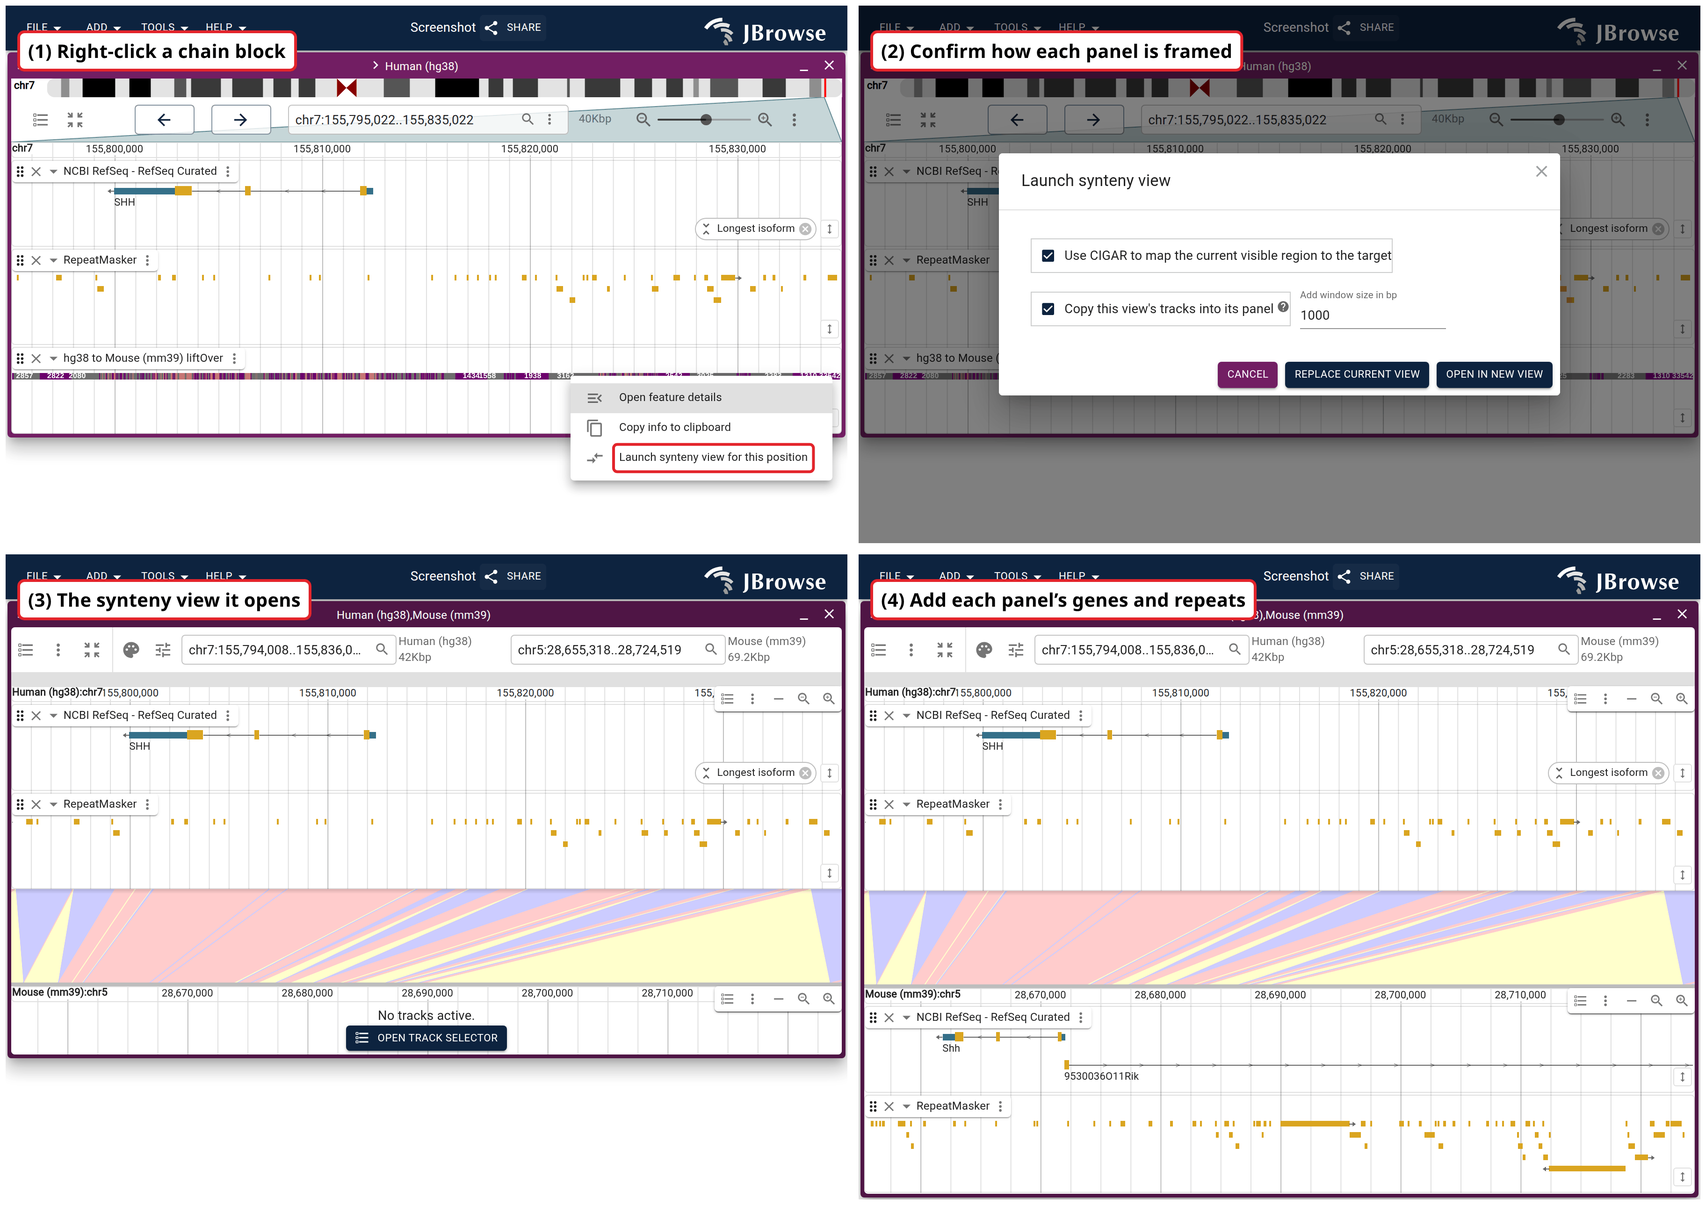
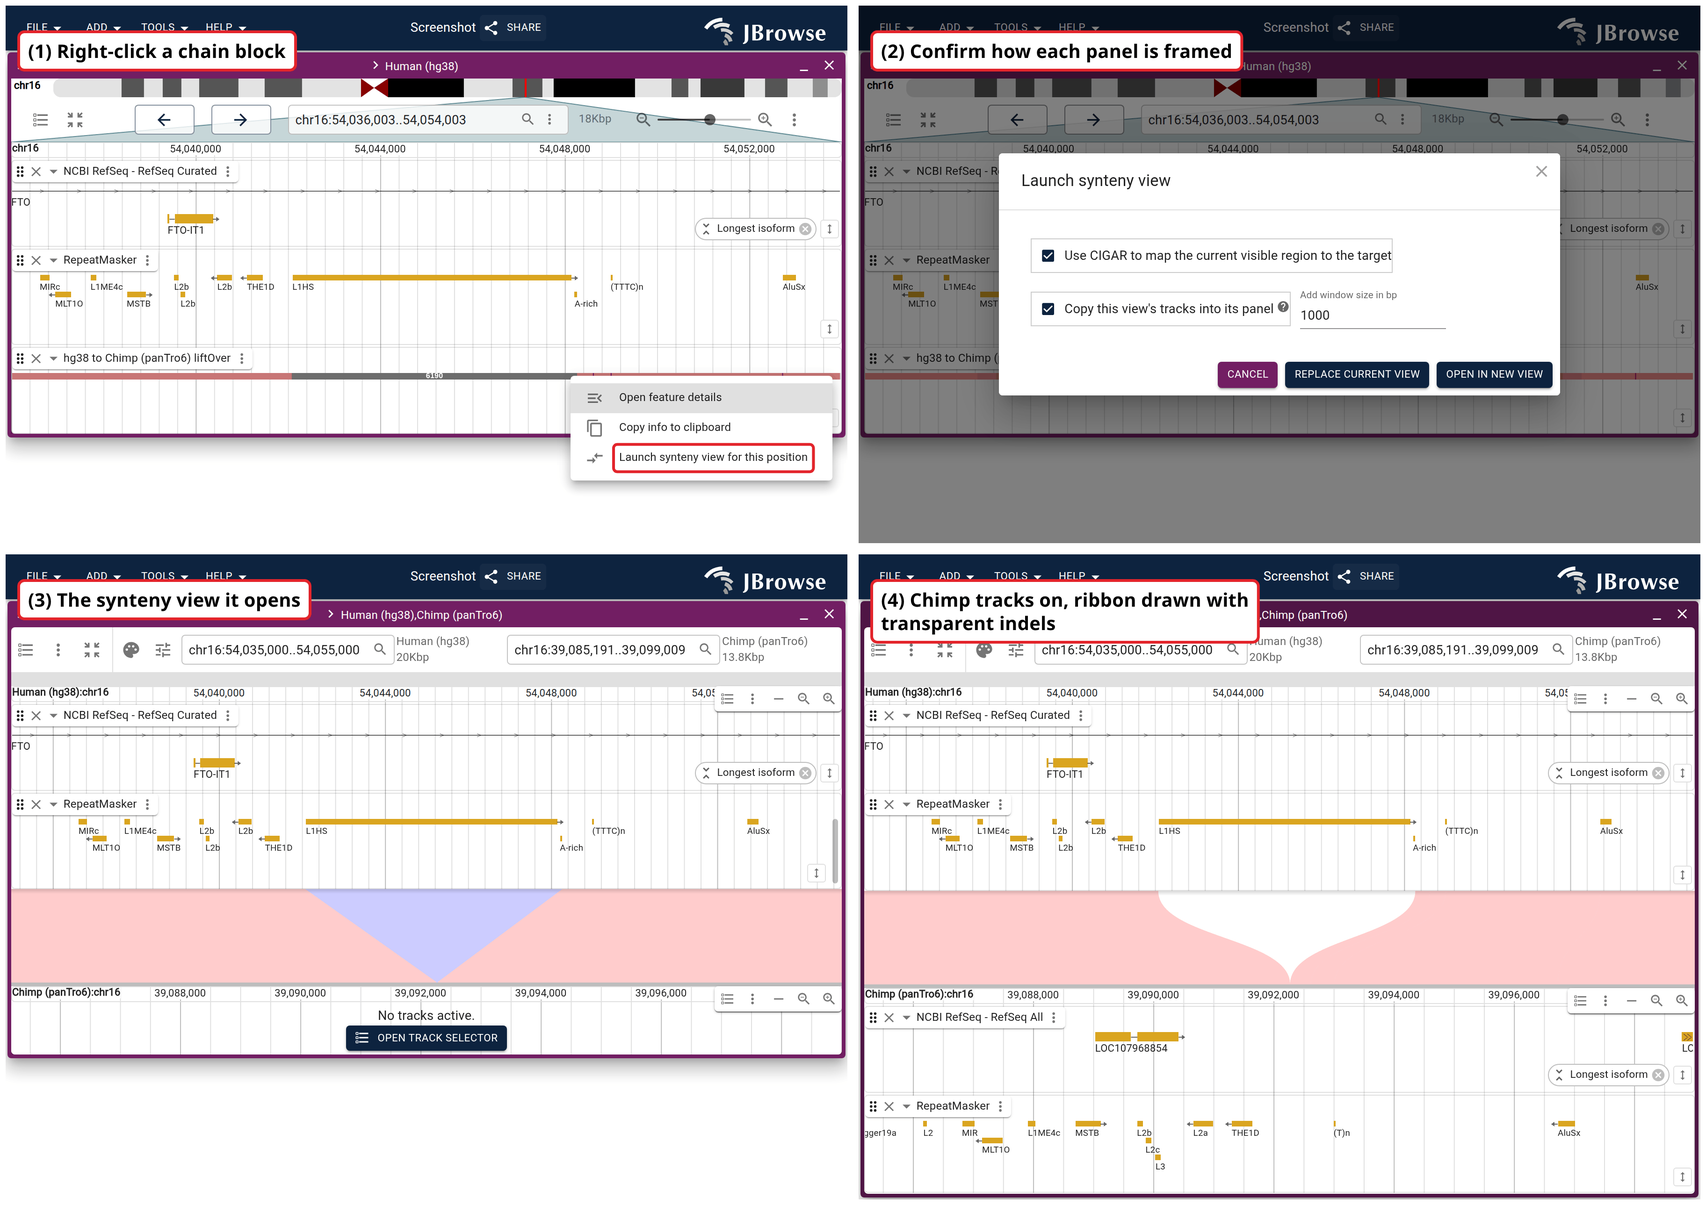
docs(genomes): move the launch walkthrough to a locus where the gaps mean something
Two review asks on `genomes_synteny/launch_sequence`, and the second one moved
the whole figure.

Curves and Transparent indels are on frame 4 only, since frames 1-3 are about
the launch rather than about the ribbon. That has a side effect worth keeping:
3 and 4 sit next to each other in the grid showing the same indel as a painted
wedge and as a see-through hole.

The gene changed because mouse was the wrong kind of cross-species for a payoff
frame made of indel wedges -- at ~90 My every gap is a gap and none of them is
attributable to anything. It is hg38 vs chimp now, which the hub already carries
as `hg38_to_panTro6_liftOver`, across an FTO intron, and the locus was measured
rather than picked. `chr16:54,042,096-54,048,145` is a 6,049 bp L1HS -- the
youngest, still-active human LINE-1 subfamily, human-specific by subfamily --
read out of the hub's own `rmsk.bed.gz`, 641 bp clear of the nearest upstream
element and ~4.5 kb clear of the next downstream one. Walking the chain's CIGAR
across the 20 kb window finds five indel events: one 6,190 bp deletion at
`chr16:54,042,080-54,048,270` and four insertions of 6, 1, 1 and 1 bp. So the
single hole in the ribbon is the single transposon, bracketing the RepeatMasker
call by its poly-A and target-site duplication, and the chimp panel keeps every
flanking repeat but not that one.

Deliberately not RB1/VAPB/PICALM: the linear-synteny guide's TE figures read the
[…]

diff --git a/website/scripts/specs/synteny.ts b/website/scripts/specs/synteny.ts
@@ -63,18 +63,19 @@ function tnnt3Session(view: Record<string, unknown> = {}) {
   })
 }
 
-// Genes over repeats in each panel of the finished SHH comparison, one entry per
+// Genes over repeats in each panel of the finished FTO comparison, one entry per
 // track. RefSeq Curated is the same gene track (and the same longest-isoform
 // glyph) the LGV the launch came from is showing, and the human pair matches
 // what that view's tracks were copied into the anchor panel as — so the two
-// bottom frames differ in the mouse panel and nothing else.
+// bottom frames differ in the chimp panel and nothing else.
 //
 // The heights are the figure's, which is the point of declaring this frame
 // rather than clicking it together: pinned, they hold the two frames to roughly
-// one height instead of the default four times over. Labels off on the repeats
-// for the same reason they are off in the launching view — at 42 kb every
-// repeat carries a name and the names are two rows of overlapping text.
-const SHH_PANEL_TRACKS = {
+// one height instead of the default four times over. Repeat labels stay ON here
+// (they are off in the launching view, which is 4x this window): at 18 kb this
+// interval holds a dozen elements, and the name on the one in the gap is what
+// makes the figure's claim checkable rather than asserted.
+const FTO_PANEL_TRACKS = {
   hg38: [
     {
       trackId: 'hg38-ncbiRefSeqCurated',
@@ -84,20 +85,21 @@ const SHH_PANEL_TRACKS = {
     {
       trackId: 'hg38-rmsk',
       displayMode: 'compact',
-      showLabels: 'none',
       height: 72,
     },
   ],
-  mm39: [
+  // `panTro6-ncbiRefSeq`, not the Curated track the human panel uses: RefSeq
+  // Curated is a human-first product and chimp's copy of it is sparse enough to
+  // leave this window empty, which would put a blank lane opposite FTO.
+  panTro6: [
     {
-      trackId: 'mm39-ncbiRefSeqCurated',
+      trackId: 'panTro6-ncbiRefSeq',
       geneGlyphMode: 'longestCoding',
       height: 60,
     },
     {
-      trackId: 'mm39-rmsk',
+      trackId: 'panTro6-rmsk',
       displayMode: 'compact',
-      showLabels: 'none',
       height: 72,
     },
   ],
@@ -1682,22 +1684,32 @@ export const syntenySpecs: ScreenshotSpec[] = [
   // reach its result. The panels carry their step number, since a grid has two
   // reading orders and the numbers pick one.
   //
-  // Human vs MOUSE, not human vs T2T (reviewer): between two assemblies of the
-  // same species every block is near-identical and the launched view says
-  // nothing a reader could not have guessed. hg38 -> mm39 over SHH is the
-  // opposite case — a deeply conserved developmental gene whose coding exons
-  // still align at ~90 My of divergence while the sequence between them does
-  // not, so the chain track is a handful of separated blocks and the view the
-  // launch opens is worth looking at.
+  // Human vs CHIMP at an FTO intron, not human vs T2T and no longer human vs
+  // mouse. Same-species assemblies make every block near-identical and the
+  // launched view says nothing a reader could not have guessed, so it has to be
+  // cross-species; but mouse was the wrong kind of cross-species for a figure
+  // whose payoff frame is a ribbon full of indel wedges. At ~90 My every gap is
+  // a gap and none of them is attributable to anything, which is what the review
+  // asked to fix ("a gene where the insertions and deletions are more clearly
+  // assignable to a single transposon insertion").
   //
-  // 40 kb, not the 300 kb this used to open on. At 300 kb the payoff frames were
-  // unreadable in both bands that matter: RepeatMasker was a solid strip rather
-  // than repeats, and the ribbon's CIGAR indel wedges (cigarMode 'full') were a
-  // mass of overlapping triangles. At ~45 bp/px a 300 bp Alu is its own block and
-  // the ribbon's gaps are countable, so the picture shows what it is for — SHH's
-  // own sequence aligning across ~90 My while the flank either side of it is
-  // interrupted, repeat by repeat. The window keeps SHH whole and leans
-  // downstream, which is the side those interruptions are on.
+  // hg38 chr16:54,042,096-54,048,145 is a 6,049 bp **L1HS** — the youngest,
+  // still-active human LINE-1 subfamily, so human-specific by subfamily — sitting
+  // in an FTO intron. Read out of the hub's own RepeatMasker file
+  // (jbrowse.org/ucsc/hg38/rmsk.bed.gz), with 641 bp of unique sequence between
+  // it and the nearest upstream element (THE1D) and ~4.5 kb to the nearest
+  // downstream one (AluSx), so the chain has clean anchors either side and the
+  // insertion is a single gap rather than a repeat-dense smear.
+  //
+  // NOT the RB1/VAPB/PICALM loci: those are the linear-synteny guide's TE
+  // figures and they read the same hg38ToPanTro6.over.pif.gz this hub track
+  // does, so reusing one would republish an existing picture from a different
+  // menu.
+  //
+  // 18 kb: about three window-widths of the element itself, so both flanks are
+  // in frame with their repeats named. At the 300 kb this figure once opened on,
+  // RepeatMasker was a solid strip rather than repeats and the CIGAR wedges were
+  // a mass of overlapping triangles.
   //
   // The right-click is a viewport coordinate, not a selector: the chain-block
   // canvas fills the display's whole height, so its center lands well below the
@@ -1713,7 +1725,7 @@ export const syntenySpecs: ScreenshotSpec[] = [
         {
           type: 'LinearGenomeView',
           assembly: 'hg38',
-          loc: 'chr7:155,795,000-155,835,000',
+          loc: 'chr16:54,036,000-54,054,000',
           tracks: [
             {
               trackId: 'hg38-ncbiRefSeqCurated',
@@ -1730,11 +1742,9 @@ export const syntenySpecs: ScreenshotSpec[] = [
             {
               trackId: 'hg38-rmsk',
               displayMode: 'compact',
-              // 58 repeats in this window, and every one of them carries a name
-              // — at 40 kb that is two rows of overlapping text under a row of
-              // blocks. The blocks are what the figure is pointing at; the
-              // classes are named in the prose.
-              showLabels: 'none',
+              // labels on: at 18 kb this window holds about a dozen elements, so
+              // the names fit on one row, and the one on the L1HS is what the
+              // whole figure is pointing at
               height: 70,
             },
             {
@@ -1743,11 +1753,12 @@ export const syntenySpecs: ScreenshotSpec[] = [
               // whatever fragment is under the cursor. Stacked, the long
               // conserved chains are their own bars and the launch can be aimed
               // at a big one.
-              trackId: 'hg38_to_mm39_liftOver',
+              trackId: 'hg38_to_panTro6_liftOver',
               type: 'LGVSyntenyDisplay',
               collapseGroupRows: false,
-              // one row: this window sits inside a single 6.4 Mb chain, so the
-              // rest of the display would be empty canvas under the menu
+              // one row: this window sits inside a single chromosome-scale
+              // chain, so the rest of the display would be empty canvas under
+              // the menu
               height: 60,
             },
           ],
@@ -1869,26 +1880,36 @@ export const syntenySpecs: ScreenshotSpec[] = [
       // windows: the locstrings are the ones the CIGAR mapping produced in stage
       // 3, so this is that view with tracks on, not a different one.
       //
-      // mm39 needs no setup here either, for the same reason it needs none in
+      // panTro6 needs no setup here either, for the same reason it needs none in
       // the LGV above: naming it resolves it through the hub plugin, which also
-      // brings the mm39 hub's tracks (jbrowse.org/ucsc/mm39/config.json) — which
-      // is where mm39-ncbiRefSeqCurated and mm39-rmsk come from.
+      // brings the panTro6 hub's tracks (jbrowse.org/ucsc/panTro6/config.json) —
+      // which is where panTro6-ncbiRefSeq and panTro6-rmsk come from.
+      //
+      // drawCurves and cigarMode 'matches' ("Transparent indels"), both review
+      // asks and both only meaningful on THIS frame: an indel drawn as a gap
+      // rather than as a painted wedge is what makes the L1HS read as the human
+      // side having sequence the chimp side does not, instead of as one more
+      // colored triangle among the alignment's ordinary noise. Stages 1-3 keep
+      // the defaults, since they are about the launch rather than about the
+      // ribbon.
       {
         url: sessionSpec(UCSC_HG38_CONFIG, {
           views: [
             {
               type: 'LinearSyntenyView',
-              tracks: [['hg38_to_mm39_liftOver']],
+              tracks: [['hg38_to_panTro6_liftOver']],
+              drawCurves: true,
+              cigarMode: 'matches',
               views: [
                 {
                   assembly: 'hg38',
-                  loc: 'chr7:155,794,008-155,836,008',
-                  tracks: SHH_PANEL_TRACKS.hg38,
+                  loc: 'chr16:54,035,008-54,055,008',
+                  tracks: FTO_PANEL_TRACKS.hg38,
                 },
                 {
-                  assembly: 'mm39',
-                  loc: 'chr5:28,655,318-28,724,519',
-                  tracks: SHH_PANEL_TRACKS.mm39,
+                  assembly: 'panTro6',
+                  loc: 'chr16:39,085,191-39,099,009',
+                  tracks: FTO_PANEL_TRACKS.panTro6,
                 },
               ],
             },
@@ -1902,7 +1923,7 @@ export const syntenySpecs: ScreenshotSpec[] = [
             x: 24,
             y: 56,
             fontSize: 20,
-            text: '(4) Add each panel’s genes and repeats',
+            text: '(4) Chimp tracks on, ribbon drawn with transparent indels',
           },
         ],
       },

diff --git a/website/src/lib/galleryLinks.generated.ts b/website/src/lib/galleryLinks.generated.ts
@@ -32,7 +32,7 @@ export const specSessionUrls: Record<string, string> = {
   "synteny_hg38_hs1_tnnt3": "?config=test_data/hg38_hs1_synteny/config.json&session=spec-%7B%22views%22%3A%5B%7B%22type%22%3A%22LinearSyntenyView%22%2C%22colorBy%22%3A%22strand%22%2C%22tracks%22%3A%5B%5B%22hg38_hs1_synteny%22%5D%5D%2C%22drawCurves%22%3Atrue%2C%22cigarMode%22%3A%22matches%22%2C%22views%22%3A%5B%7B%22assembly%22%3A%22hg38%22%2C%22loc%22%3A%22chr11%3A1%2C881%2C000-1%2C955%2C000%22%2C%22tracks%22%3A%5B%7B%22trackId%22%3A%22hg38-genes%22%2C%22geneGlyphMode%22%3A%22longestCoding%22%7D%5D%2C%22trackLabels%22%3A%22offset%22%7D%2C%7B%22assembly%22%3A%22hs1%22%2C%22loc%22%3A%22chr11%3A1%2C964%2C700-2%2C038%2C700%22%2C%22tracks%22%3A%5B%7B%22trackId%22%3A%22hs1-genes%22%2C%22geneGlyphMode%22%3A%22longestCoding%22%2C%22showOnlyGenes%22%3Atrue%7D%5D%2C%22trackLabels%22%3A%22offset%22%7D%5D%7D%5D%7D&sessionName=Screenshot",
   "genomes_synteny/ribbons_default": "?config=test_data/hg38_hs1_synteny/config.json&session=spec-%7B%22views%22%3A%5B%7B%22type%22%3A%22LinearSyntenyView%22%2C%22colorBy%22%3A%22strand%22%2C%22tracks%22%3A%5B%5B%22hg38_hs1_synteny%22%5D%5D%2C%22views%22%3A%5B%7B%22assembly%22%3A%22hg38%22%2C%22loc%22%3A%22chr11%3A1%2C881%2C000-1%2C955%2C000%22%2C%22tracks%22%3A%5B%7B%22trackId%22%3A%22hg38-genes%22%2C%22geneGlyphMode%22%3A%22longestCoding%22%7D%5D%2C%22trackLabels%22%3A%22offset%22%7D%2C%7B%22assembly%22%3A%22hs1%22%2C%22loc%22%3A%22chr11%3A1%2C964%2C700-2%2C038%2C700%22%2C%22tracks%22%3A%5B%7B%22trackId%22%3A%22hs1-genes%22%2C%22geneGlyphMode%22%3A%22longestCoding%22%2C%22showOnlyGenes%22%3Atrue%7D%5D%2C%22trackLabels%22%3A%22offset%22%7D%5D%7D%5D%7D&sessionName=Screenshot",
   "genomes_synteny/ribbons_curved": "?config=test_data/hg38_hs1_synteny/config.json&session=spec-%7B%22views%22%3A%5B%7B%22type%22%3A%22LinearSyntenyView%22%2C%22colorBy%22%3A%22strand%22%2C%22tracks%22%3A%5B%5B%22hg38_hs1_synteny%22%5D%5D%2C%22drawCurves%22%3Atrue%2C%22cigarMode%22%3A%22matches%22%2C%22views%22%3A%5B%7B%22assembly%22%3A%22hg38%22%2C%22loc%22%3A%22chr11%3A1%2C881%2C000-1%2C955%2C000%22%2C%22tracks%22%3A%5B%7B%22trackId%22%3A%22hg38-genes%22%2C%22geneGlyphMode%22%3A%22longestCoding%22%7D%5D%2C%22trackLabels%22%3A%22offset%22%7D%2C%7B%22assembly%22%3A%22hs1%22%2C%22loc%22%3A%22chr11%3A1%2C964%2C700-2%2C038%2C700%22%2C%22tracks%22%3A%5B%7B%22trackId%22%3A%22hs1-genes%22%2C%22geneGlyphMode%22%3A%22longestCoding%22%2C%22showOnlyGenes%22%3Atrue%7D%5D%2C%22trackLabels%22%3A%22offset%22%7D%5D%7D%5D%7D&sessionName=Screenshot",
-  "genomes_synteny/launch_sequence": "?config=https%3A%2F%2Fjbrowse.org%2Fucsc%2Fhg38%2Fconfig.json&session=spec-%7B%22views%22%3A%5B%7B%22type%22%3A%22LinearGenomeView%22%2C%22assembly%22%3A%22hg38%22%2C%22loc%22%3A%22chr7%3A155%2C795%2C000-155%2C835%2C000%22%2C%22tracks%22%3A%5B%7B%22trackId%22%3A%22hg38-ncbiRefSeqCurated%22%2C%22geneGlyphMode%22%3A%22longestCoding%22%2C%22height%22%3A60%7D%2C%7B%22trackId%22%3A%22hg38-rmsk%22%2C%22displayMode%22%3A%22compact%22%2C%22showLabels%22%3A%22none%22%2C%22height%22%3A70%7D%2C%7B%22trackId%22%3A%22hg38_to_mm39_liftOver%22%2C%22type%22%3A%22LGVSyntenyDisplay%22%2C%22collapseGroupRows%22%3Afalse%2C%22height%22%3A60%7D%5D%7D%5D%7D&sessionName=Screenshot",
+  "genomes_synteny/launch_sequence": "?config=https%3A%2F%2Fjbrowse.org%2Fucsc%2Fhg38%2Fconfig.json&session=spec-%7B%22views%22%3A%5B%7B%22type%22%3A%22LinearGenomeView%22%2C%22assembly%22%3A%22hg38%22%2C%22loc%22%3A%22chr16%3A54%2C036%2C000-54%2C054%2C000%22%2C%22tracks%22%3A%5B%7B%22trackId%22%3A%22hg38-ncbiRefSeqCurated%22%2C%22geneGlyphMode%22%3A%22longestCoding%22%2C%22height%22%3A60%7D%2C%7B%22trackId%22%3A%22hg38-rmsk%22%2C%22displayMode%22%3A%22compact%22%2C%22height%22%3A70%7D%2C%7B%22trackId%22%3A%22hg38_to_panTro6_liftOver%22%2C%22type%22%3A%22LGVSyntenyDisplay%22%2C%22collapseGroupRows%22%3Afalse%2C%22height%22%3A60%7D%5D%7D%5D%7D&sessionName=Screenshot",
   "sv_cgiab/dotplot_hap1": "?config=https%3A%2F%2Fjbrowse.org%2Fdemos%2Fcgiab%2Fconfig.json&session=spec-%7B%22sessionTracks%22%3A%5B%7B%22type%22%3A%22SyntenyTrack%22%2C%22trackId%22%3A%22HG008T_v3.2_pif%22%2C%22name%22%3A%22HG008T%20v3.2%22%2C%22assemblyNames%22%3A%5B%22HG008T_v3.2%22%2C%22GRCh38_GIABv3%22%5D%2C%22adapter%22%3A%7B%22type%22%3A%22PairwiseIndexedPAFAdapter%22%2C%22assemblyNames%22%3A%5B%22HG008T_v3.2%22%2C%22GRCh38_GIABv3%22%5D%2C%22pifGzLocation%22%3A%7B%22uri%22%3A%22https%3A%2F%2Fjbrowse.org%2Fdemos%2Fcgiab%2FHG008T_v3.2.pif.gz%22%2C%22locationType%22%3A%22UriLocation%22%7D%2C%22index%22%3A%7B%22indexType%22%3A%22TBI%22%2C%22location%22%3A%7B%22uri%22%3A%22https%3A%2F%2Fjbrowse.org%2Fdemos%2Fcgiab%2FHG008T_v3.2.pif.gz.tbi%22%2C%22locationType%22%3A%22UriLocation%22%7D%7D%7D%7D%5D%2C%22views%22%3A%5B%7B%22type%22%3A%22DotplotView%22%2C%22views%22%3A%5B%7B%22assembly%22%3A%22GRCh38_GIABv3%22%7D%2C%7B%22assembly%22%3A%22HG008T_v3.2%22%2C%22displayedRegionNames%22%3A%5B%22*_hap1%22%5D%7D%5D%2C%22tracks%22%3A%5B%22HG008T_v3.2_pif%22%5D%2C%22autoDiagonalize%22%3Atrue%7D%5D%7D&sessionName=Screenshot",
   "sv_cgiab/dotplot_hap2": "?config=https%3A%2F%2Fjbrowse.org%2Fdemos%2Fcgiab%2Fconfig.json&session=spec-%7B%22sessionTracks%22%3A%5B%7B%22type%22%3A%22SyntenyTrack%22%2C%22trackId%22%3A%22HG008T_v3.2_pif%22%2C%22name%22%3A%22HG008T%20v3.2%22%2C%22assemblyNames%22%3A%5B%22HG008T_v3.2%22%2C%22GRCh38_GIABv3%22%5D%2C%22adapter%22%3A%7B%22type%22%3A%22PairwiseIndexedPAFAdapter%22%2C%22assemblyNames%22%3A%5B%22HG008T_v3.2%22%2C%22GRCh38_GIABv3%22%5D%2C%22pifGzLocation%22%3A%7B%22uri%22%3A%22https%3A%2F%2Fjbrowse.org%2Fdemos%2Fcgiab%2FHG008T_v3.2.pif.gz%22%2C%22locationType%22%3A%22UriLocation%22%7D%2C%22index%22%3A%7B%22indexType%22%3A%22TBI%22%2C%22location%22%3A%7B%22uri%22%3A%22https%3A%2F%2Fjbrowse.org%2Fdemos%2Fcgiab%2FHG008T_v3.2.pif.gz.tbi%22%2C%22locationType%22%3A%22UriLocation%22%7D%7D%7D%7D%5D%2C%22views%22%3A%5B%7B%22type%22%3A%22DotplotView%22%2C%22views%22%3A%5B%7B%22assembly%22%3A%22GRCh38_GIABv3%22%7D%2C%7B%22assembly%22%3A%22HG008T_v3.2%22%2C%22displayedRegionNames%22%3A%5B%22*_hap2%22%5D%7D%5D%2C%22tracks%22%3A%5B%22HG008T_v3.2_pif%22%5D%2C%22autoDiagonalize%22%3Atrue%7D%5D%7D&sessionName=Screenshot",
   "sv_cgiab/dotplot_import_form": "?config=https%3A%2F%2Fjbrowse.org%2Fdemos%2Fcgiab%2Fconfig.json&session=spec-%7B%22views%22%3A%5B%7B%22type%22%3A%22DotplotView%22%2C%22views%22%3A%5B%7B%7D%2C%7B%7D%5D%7D%5D%7D&sessionName=Screenshot",

diff --git a/website/docs/tutorials/genomes_synteny.md b/website/docs/tutorials/genomes_synteny.md
@@ -63,24 +63,35 @@ here: the synteny view opens on the locus the linear view is already showing, so
 keeping both leaves two views of one place stacked, with the taller of the two
 below the fold.
 
-The figure below walks those steps on a second pair, **hg38 to Mouse (mm39)
-liftOver** around _SHH_, because a cross-species target is where the tracks each
-panel ends up with are worth following. Every click is the same on the hs1 track
-this page opened with.
+The figure below walks those steps on a second pair, **hg38 to Chimp (panTro6)
+liftOver** across an intron of _FTO_, because a cross-species target is where the
+tracks each panel ends up with are worth following. Every click is the same on
+the hs1 track this page opened with.
 
-<Figure caption="The four steps on the hg38-to-mm39 liftOver track around SHH: right-click a chain block, confirm the framing, launch, then add the mouse panel's genes and repeats. SHH crosses to mouse Shh on one unbroken run of ribbon; the flanks either side are cut into wedges by sequence one species has and the other does not." src="/img/genomes_synteny/launch_sequence.png" />
+<Figure caption="The four steps on the hg38-to-panTro6 liftOver track across an FTO intron: right-click a chain block, confirm the framing, launch, then add the chimp panel's genes and repeats. The last frame also switches the ribbon to curves and to Transparent indels, which is what turns the one gap in it into a hole you can line up against the RepeatMasker track above: the element under it is an L1HS, the youngest human LINE-1 subfamily, and the chimp panel keeps every flanking repeat but not that one." src="/img/genomes_synteny/launch_sequence.png" />
 
 The panel for the assembly you launched from opens with the tracks that view had
 on, which is why the human side arrives with its genes and repeats already;
 **Copy this view's tracks into its panel** in the dialog turns that off. Nothing
-in the launching view says what the mouse panel should show, so that one opens
+in the launching view says what the chimp panel should show, so that one opens
 empty, and its tracks come from its own track selector, whose button in the view
-header lists one per panel. On genomes.jbrowse.org the mouse panel offers the
-same **NCBI RefSeq - RefSeq Curated** and **RepeatMasker** as the human one,
-because naming mm39 also brought in the mm39 hub's gene, repeat and gap tracks.
-The rest of that hub is not loaded with them; open it from **File → Open
-connection** as a JBrowse 2 hub at `https://jbrowse.org/ucsc/mm39/config.json`
-when you want its conservation or expression tracks too.
+header lists one per panel. On genomes.jbrowse.org the chimp panel offers
+**NCBI RefSeq - RefSeq All** and **RepeatMasker**, because naming panTro6 also
+brought in the panTro6 hub's gene, repeat and gap tracks. (RefSeq Curated exists
+there too but is a human-first product, and chimp's copy of it leaves this window
+empty.) The rest of that hub is not loaded with them; open it from **File → Open
+connection** as a JBrowse 2 hub at
+`https://jbrowse.org/ucsc/panTro6/config.json` when you want its conservation or
+expression tracks too.
+
+The ribbon's drawing is worth two more menu items once the panels are set.
+**Curved lines** in the synteny track menu is the shape in the last frame, and
+**Transparent indels** — the CIGAR display mode — leaves an indel see-through
+instead of painting it as a colored wedge. On a liftOver chain that is the
+difference between a picture and a puzzle: across this 20 kb the chain carries
+one gap of about 6 kb and four of six bases or fewer, so the single hole in the
+ribbon is the single transposon, sitting under the block RepeatMasker labels
+`L1HS`.
 
 Set the ribbon coloring to **Strand** from the palette button in the synteny
 track header.
